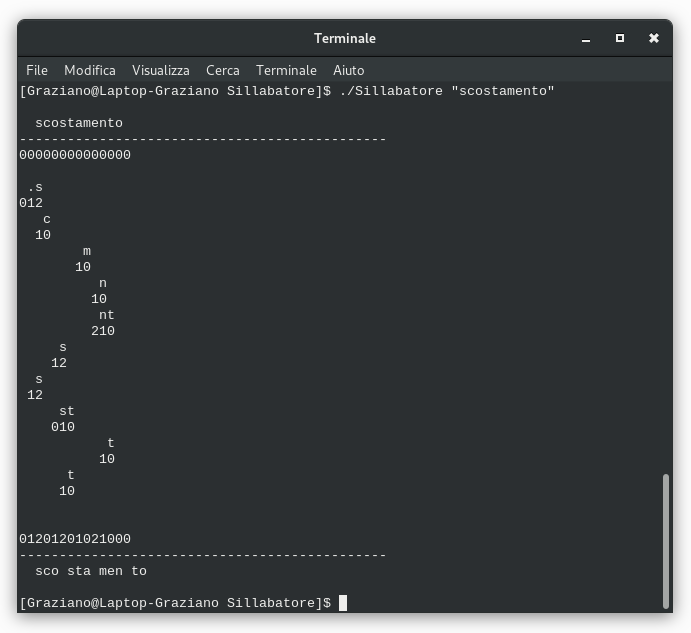
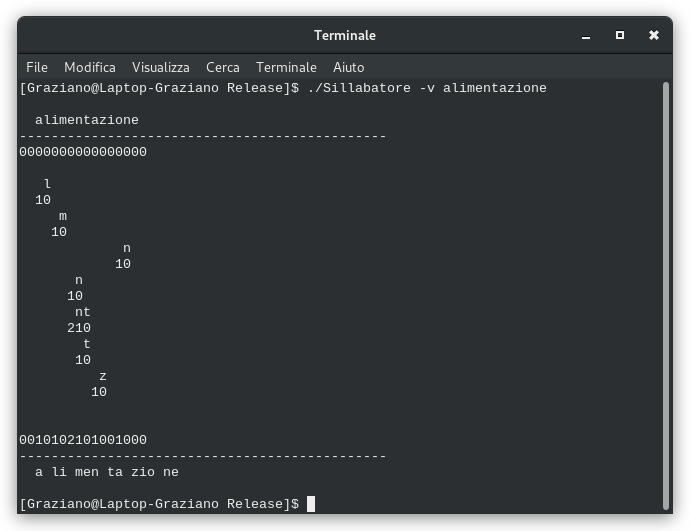
Close #1 Close #2 - Update to v1.01

diff --git a/src/main.cpp b/src/main.cpp
@@ -24,14 +24,18 @@
 #include <sstream>
 #include <fstream>
 
+#include <algorithm>
+
 using namespace std;
 
 
-string pattern[500];	// L'array che contiene i pattern di sillabazione
+string pattern[500];			// L'array che contiene i pattern di sillabazione
 short pattern_values[500][15];
 string pattern_string[500];
 string numbers = "0123456789";
 int nPatterns = 0;
+bool isVerbose = false;			// Opzione che indica se vizualizzare le regole di sillabazione
+
 
 // La funzione carica i pattern di sillabazione dal file hyph_it_IT.dic
 // e li inserisce nell'array dei Pattern;
@@ -75,55 +79,101 @@ void Sillaba(string mparola)
 	string parola = "." + mparola + ".";
 	short parola_values[parola.size() + 1];
 
-	cout << "\n  " << mparola << "\n----------------------------------------------\n";
+	if (isVerbose) cout << "\n  " << mparola << "\n----------------------------------------------\n";
 	for (int ii = 0; ii < parola.size() + 1; ii++) {
 		parola_values[ii] = 0;
-		cout << parola_values[ii];
+		if (isVerbose) cout << parola_values[ii];
 	}
-	cout << "\n\n";
+	if (isVerbose) cout << "\n\n";
 
 	if (nPatterns > 1) {		// Controlla che siano stati caricati i pattern
 		for (int i = 0; i < nPatterns; i++) {		// Ripete per ogni pattern caricato
 			string sparola = parola;
 			int ifound = sparola.rfind(pattern_string[i]);
 			while (ifound != string::npos) {		// Finchè trova delle occorrenze
-				for (int ii = 0; ii < ifound + 1; ii++) cout << " ";
-				cout << pattern_string[i];
-				cout << "\n";
-				for (int ii = 0; ii < ifound; ii++) cout << " ";
+				if (isVerbose) {
+					for (int ii = 0; ii < ifound + 1; ii++) cout << " ";
+					cout << pattern_string[i] << "\n";
+					for (int ii = 0; ii < ifound; ii++) cout << " ";
+				}
 				for (int ii = 0; ii <= pattern_string[i].size(); ii++) {
-					cout << pattern_values[i][ii];
+					if (isVerbose) cout << pattern_values[i][ii];
 					if (parola_values[ii + ifound] < pattern_values[i][ii]) parola_values[ii + ifound] = pattern_values[i][ii];
 				}
-				cout << "\n";
+				if (isVerbose) cout << "\n";
 				// Cerca la prossima occorrenza
 				sparola = parola.substr(0,ifound);
 				ifound = sparola.rfind(pattern_string[i]);
 			}
 		}
 	}
-	cout << "\n\n";
-	for (int ii = 0; ii < parola.size() + 1; ii++) cout << parola_values[ii];	// Stampa i valori finali
-	cout << "\n----------------------------------------------\n";
-
+	if (isVerbose) {
+		cout << "\n\n";
+		for (int ii = 0; ii < parola.size() + 1; ii++) cout << parola_values[ii];	// Stampa i valori finali
+		cout << "\n----------------------------------------------\n";
+	}
+	
 	string parolasillabata;
 	for (int ii = 1; ii < parola.size()-1; ii++) {		// Stampa la parola con sillabazione
 		parolasillabata += parola[ii];
 		if (parola_values[ii+1] % 2) parolasillabata += " ";
 	}
-	cout << "  " << parolasillabata << "\n\n";
+	if (isVerbose) cout << "  ";
+	cout << parolasillabata << "\n";
+	if (isVerbose) cout << "\n";
 
+}
+
+
+static void show_usage(std::string name)
+{
+	std::cerr 	<< "\nUso: " << name << " [OPZIONI] parola_da_sillabare\n"
+				<< "\nIl programma divide in sillabe la parola in ingresso\nutilizzando il file delle regole di LibreOffice hyph_it_IT.dic,\nche deve essere presente nella cartella del file eseguibile.\n"
+				<< "E' possibile scaricare il file delle regole al seguente link:\nhttps://raw.githubusercontent.com/LibreOffice/dictionaries/master/it_IT/hyph_it_IT.dic\n\n"
+				<< "Opzioni:\n"
+				<< "\t-h,--help\t\tVisualizza questo messaggio di aiuto\n"
+				<< "\t-v,--verbose\t\tVisualizza tutte le regole applicate\n"
+				<< "\t--version\t\tRestituisce il numero di versione del programma\n"
+				<< std::endl;
 }
 
 
 int main(int argc, char **argv)
 {
-	if (argc > 0) {
-		string parola = argv[1];
+	string parola = "";
 
-		LoadPatterns("../hyph_it_IT.dic");
-		//Sillaba(parola);
+	if (argc < 2) {
+        show_usage(argv[0]);
+        return 0;
+    }
+    for (int i = 1; i < argc; ++i) {
+        std::string arg = argv[i];
+        if ((arg == "-h") || (arg == "--help")) {				// Visualizza help
+            show_usage(argv[0]);
+            return 0;
+        } else if ((arg == "-v") || (arg == "--verbose")) {		// Visualizza regole di sillabazione
+			isVerbose = true;
+		} else if (arg == "--version") {						// Visualizza la versione dell'applicazione
+			cerr << "\nSillabatore v1.01 (03/05/2020)\n"
+				 << "Copyright © 2019 Graziano Capelli.\n\n"
+				 << "Licenza GPLv3+: GNU GPL version 3 o successiva <https://gnu.org/licenses/gpl.html>.\n"
+				 << "This is free software: you are free to change and redistribute it.\n"
+				 << "There is NO WARRANTY, to the extent permitted by law.\n\n";
+			return 0;
+		} else if (arg.at(0) != '-') {
+			parola = arg;
+			// convert string to back to lower case
+			std::for_each(parola.begin(), parola.end(), [](char & c) {
+				c = ::tolower(c);
+			});
+		}
+    }
+	
+	if (parola != "") {
+		LoadPatterns("./hyph_it_IT.dic");
 		Sillaba(parola);
+	} else {
+		show_usage(argv[0]);
 	}
 
 	return 0;

diff --git a/README.md b/README.md
@@ -17,9 +17,8 @@ E' quindi liberamente scaricabile e utilizzabile da chiunque.<br>
 1) Scaricare l'archivio dalla cartella /bin di questa repo ed estrarla nel proprio PC.<br>
 2) Aprire un terminale, entrare nella cartella appena estratta e digitare:
 ```c++
-./Sillabatore "parola_da_sillabare"
+./Sillabatore parola_da_sillabare
 ```
-_NB: La parola da sillabare va scritta in minuscolo._
 
 ## Licenze
 - Il software è pubblicato/rilasciato sotto i termini della licenza [GPL-3.0](https://github.com/GrazianoCapelli/Sillabatore/blob/master/LICENSE)
